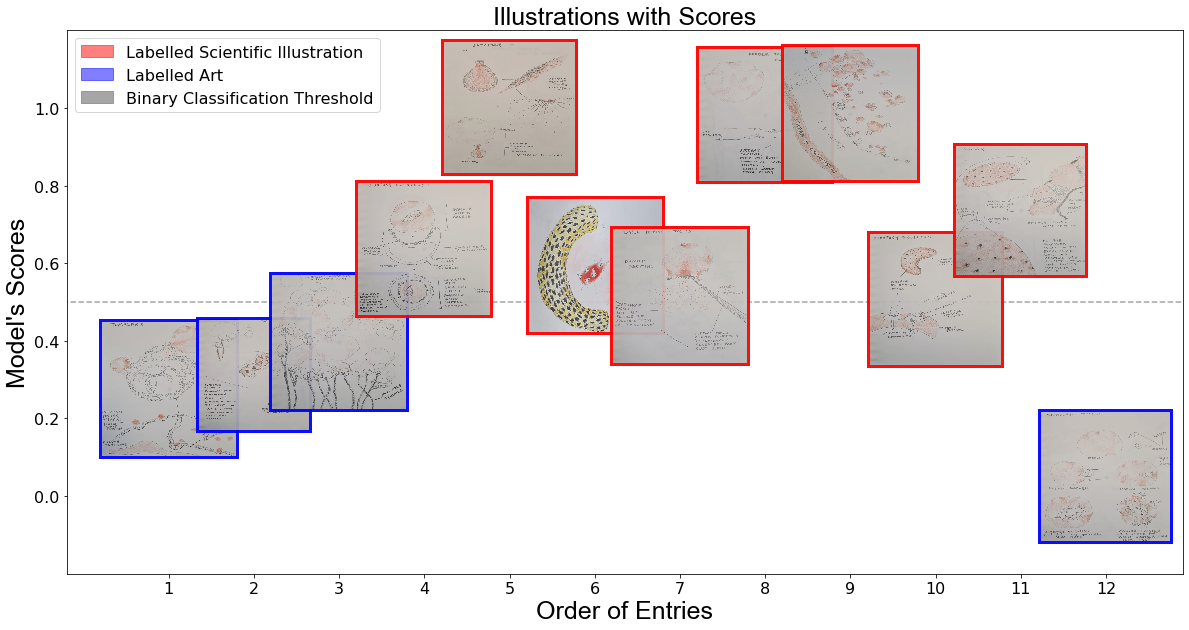
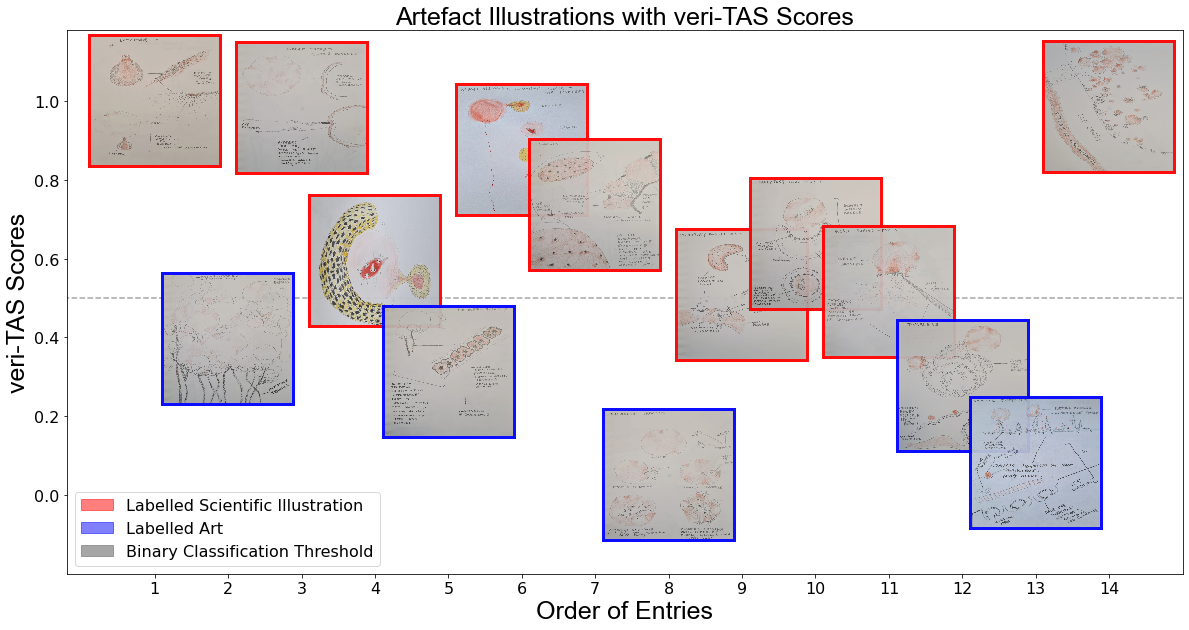
Updating Graph to have correct ordering

diff --git a/GraphCreation.py b/GraphCreation.py
@@ -16,12 +16,16 @@ font_dictionary = {'family': 'Arial', 'color': 'black', 'weight': 'normal', 'siz
 I NEED TO SORT THE IMAGES SO THAT THEY HAVE THE CORRECT VALUES AND ARE IN THE CORRECT ORDER
 """
 
-x_values = np.arange(1,13,1)
+image_df = image_df.rename(columns={'images':'order','images.1':'images'})
+x_values = image_df['order']
 y_values = image_df['values']
 
 #creating list of file paths to access the images
-image_paths = os.listdir(os.path.join('OurDrawings','images'))[1:]
-image_paths = ['OurDrawings/images/' + image for image in image_paths]
+image_paths = os.listdir(os.path.join('OurDrawings','Images'))
+if '.DS_Store' in os.listdir(os.path.join('OurDrawings','Images')):
+    image_paths.remove('.DS_Store')
+
+image_paths = ['OurDrawings/images/' + image for image in image_df['images']]
 
 # Create a figure and axis
 fig, ax = plt.subplots(figsize=(20,10))
@@ -33,7 +37,8 @@ scatter = ax.scatter(x_values, y_values, s=10, marker='o')
 for x, y, img_path, colour in zip(x_values, y_values, image_paths, image_df['ScientificOrNot']):
     img = Image.open(img_path)
     #converting images to squares for the plot
-    sqrDims = np.ceil(np.sqrt(img.size[0]*img.size[1])).astype(int)
+    #sqrDims = np.ceil(np.sqrt(img.size[0]*img.size[1])).astype(int)
+    sqrDims = 1600
     resize = img.resize((sqrDims, sqrDims))
     #creating squares to act as frames
     square_length = resize.size[0] + 70
@@ -57,20 +62,20 @@ for x, y, img_path, colour in zip(x_values, y_values, image_paths, image_df['Sci
 
 
 # Customize the plot if needed
-ax.set_title('Illustrations with Scores',fontdict=font_dictionary)
+ax.set_title('Artefact Illustrations with veri-TAS Scores',fontdict=font_dictionary)
 ax.set_xlabel('Order of Entries', fontdict=font_dictionary)
-ax.set_ylabel("Model's Scores", fontdict=font_dictionary)
-ax.set_ylim([-0.2,1.2])
+ax.set_ylabel("veri-TAS Scores", fontdict=font_dictionary)
+ax.set_ylim([-0.2,1.18])
 ax.set_yticks(np.arange(0,1.1,0.2))
-ax.set_xlim([-0.2,12.9])
-ax.set_xticks(np.arange(1,13,1))
+ax.set_xlim([-0.2,15])
+ax.set_xticks(np.arange(1,15,1))
 ax.tick_params(axis='x', labelsize=16)
 ax.tick_params(axis='y', labelsize=16)
 
 #creating line at 0.5 to show differentiating line
-ax.plot([-1,13],[0.5,0.5], linestyle='--', c='grey', alpha=0.7)
+ax.plot([-1,15],[0.5,0.5], linestyle='--', c='grey', alpha=0.7)
 
 #Creating custom legends
 legend_patches = [mpatches.Patch(color='red', label='Labelled Scientific Illustration', alpha = 0.5), mpatches.Patch(color='blue', label='Labelled Art', alpha = 0.5),mpatches.Patch(color='grey', label='Binary Classification Threshold', alpha = 0.7)]
-ax.legend(handles=legend_patches, loc='upper left', prop={'size': 16})
+ax.legend(handles=legend_patches, loc='lower left', prop={'size': 16})
 plt.show();

diff --git a/OwnDrawingsTesting.py b/OwnDrawingsTesting.py
@@ -6,12 +6,21 @@ from matplotlib import pyplot as plt
 import numpy as np
 import pandas as pd
 
+#creating list of image paths
+image_paths = os.listdir(os.path.join('OurDrawings','Images'))
+if '.DS_Store' in os.listdir(os.path.join('OurDrawings','Images')):
+    image_paths.remove('.DS_Store')
+
+    
+print(image_paths)
+
+
 testing_model = load_model(os.path.join('models','ImprovedNeuralNetwork.h5'))
 yhat_list = []
 
-for image in os.listdir(os.path.join('data','OurDrawings'))[1:]:
+for image in image_paths:
     #reading in image
-    img = cv2.imread(os.path.join('data','OurDrawings',image))
+    img = cv2.imread(os.path.join('OurDrawings','Images',image))
     #converting image to RGB
     img = cv2.cvtColor(img, cv2.COLOR_BGR2RGB)
     #resizing the image to 256x256
@@ -27,8 +36,27 @@ def ScientificOrNotColour(x):
         return 'red'
     else:
         return 'blue'
-image_df = pd.DataFrame({'images': os.listdir(os.path.join('data','OurDrawings'))[1:], 'values': yhat_list})
+image_df = pd.DataFrame({'images': image_paths, 'values': yhat_list})
 image_df['ScientificOrNot'] = image_df['values'].apply(ScientificOrNotColour)
 
-image_df.to_csv('OurDrawingsScores.csv')
+#creating a column which assigns the 'order of log entries' to the dataframe
+ordering_dict = {'Latcher1.jpeg': 1, 
+                'Bubbles2.jpeg': 2,
+                'Bubbles1.jpeg': 3,
+                'Colourful.jpeg': 4,
+                'Tendrils.jpeg': 5,
+                'NightVision.png': 6,
+                'Burrowers2.jpeg': 7,
+                'Burrowers1.jpeg': 8,
+                'Engulfers2.jpeg': 9,
+                'Engulfers1.jpeg': 10,
+                'Bubbles3.jpeg': 11,
+                'Tumblers1.jpeg': 12,
+                'StaticPoppers.png': 13,
+                'System1.jpeg': 14}
 
+image_df.index = image_df['images'].map(ordering_dict)
+image_df = image_df.sort_index()
+
+
+image_df.to_csv('OurDrawingsScores.csv')
